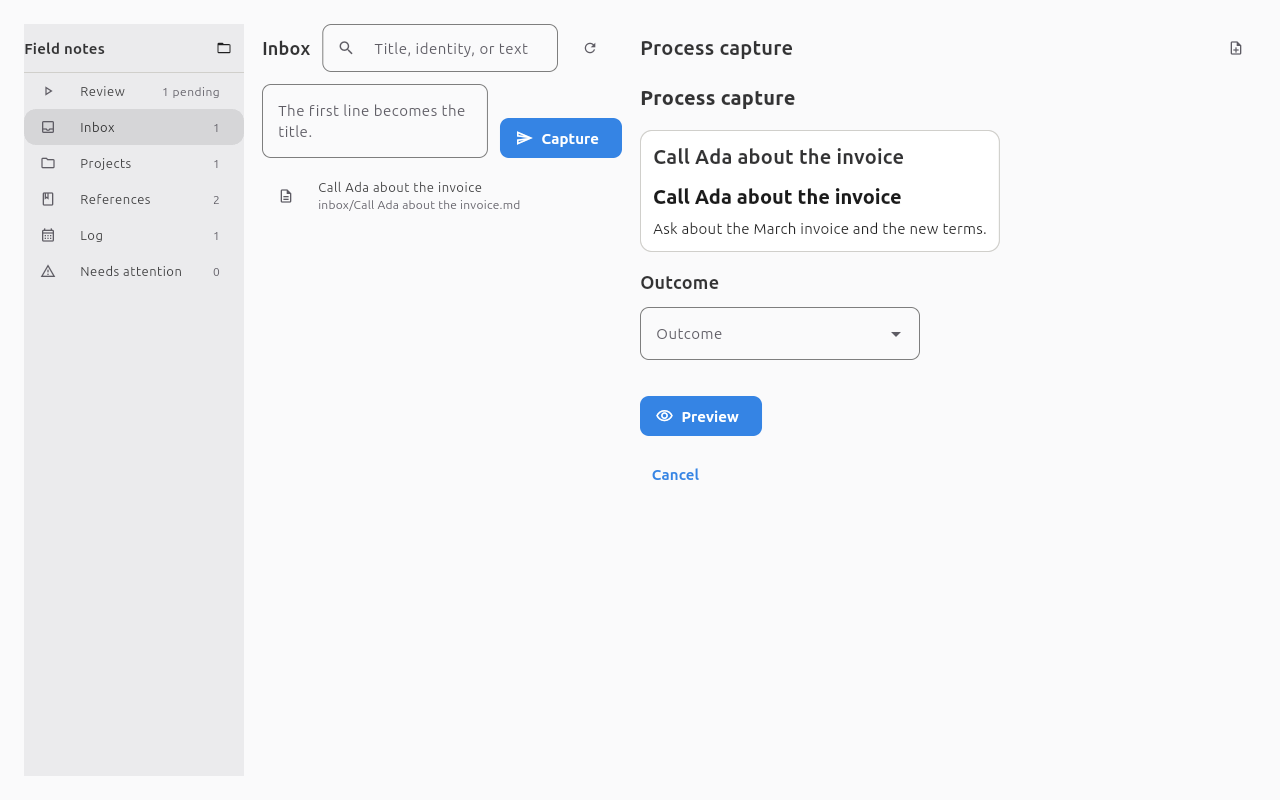
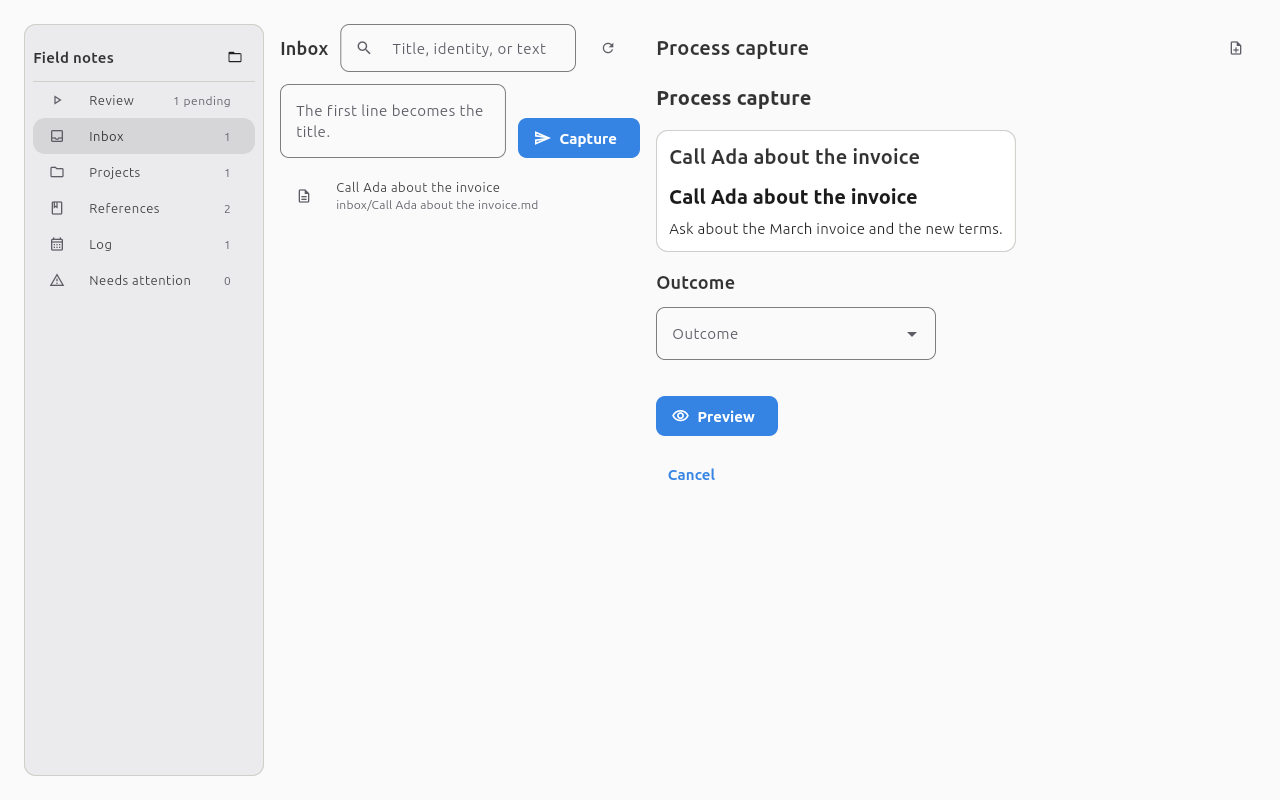
fix(workspace): give the wide navigation the panel treatment
Round and border the navigation panel in the wide layout, add inner padding, widen it to 240 so the destination labels stay on one line, and keep the drawer elevated. Regenerate the four screenshots.

diff --git a/tests/ui/test_workspace_view.py b/tests/ui/test_workspace_view.py
@@ -232,8 +232,9 @@ class TestWorkspaceShell:
         border = ft.Border.all(afanes.ui.theme.BORDER_WIDTH, afanes.ui.theme.BORDER_COLOR)
 
         assert view.navigation.bgcolor == afanes.ui.theme.REGION_SURFACE_COLOR
-        assert view.navigation.border is None
-        assert view.navigation.border_radius is None
+        assert view.navigation.border == border
+        assert view.navigation.border_radius == afanes.ui.theme.SURFACE_RADIUS
+        assert view.navigation.padding == afanes.ui.theme.NAVIGATION_PADDING
         assert view.browser_region.bgcolor == afanes.ui.theme.PAGE_SURFACE_COLOR
         assert view.browser_region.border is None
         assert isinstance(view.page_view.root, ft.Container)
@@ -886,10 +887,10 @@ class TestAdaptiveLayout:
         assert view.shell_row.controls == [view.navigation, view.browser_region, view.detail_region]
         assert view.nav_toggle.visible is False
         assert view.drawer_close_button.visible is False
-        assert view.navigation.border is None
-        assert view.navigation.border_radius is None
+        assert view.navigation.border is not None
+        assert view.navigation.border_radius == afanes.ui.theme.SURFACE_RADIUS
         assert view.navigation.shadow is None
-        assert view.navigation.padding is None
+        assert view.navigation.padding == afanes.ui.theme.NAVIGATION_PADDING
         assert view.navigation.left is None
         assert view.navigation.width == afanes.ui.theme.NAVIGATION_WIDTH
 

diff --git a/src/afanes/ui/views/workspace.py b/src/afanes/ui/views/workspace.py
@@ -389,7 +389,7 @@ class WorkspaceView:
         )
         self.shell_row = ft.Row(
             controls=[],
-            spacing=afanes.ui.theme.SECTION_GAP,
+            spacing=afanes.ui.theme.WORKSPACE_BODY_GAP,
             vertical_alignment=ft.CrossAxisAlignment.STRETCH,
             expand=True,
         )
@@ -447,10 +447,13 @@ class WorkspaceView:
         self.nav_toggle.visible = not wide
         self.drawer_close_button.visible = not wide
         if wide:
-            self.navigation.border = None
-            self.navigation.border_radius = None
+            self.navigation.border = ft.Border.all(
+                afanes.ui.theme.BORDER_WIDTH,
+                afanes.ui.theme.BORDER_COLOR,
+            )
+            self.navigation.border_radius = afanes.ui.theme.SURFACE_RADIUS
             self.navigation.shadow = None
-            self.navigation.padding = None
+            self.navigation.padding = afanes.ui.theme.NAVIGATION_PADDING
             self.navigation.left = None
             self.navigation.top = None
             self.navigation.bottom = None

diff --git a/tests/ui/test_theme.py b/tests/ui/test_theme.py
@@ -76,8 +76,9 @@ ICON_SIZE_LARGE_VALUE = 32
 LIST_ROW_MIN_HEIGHT = 36
 WINDOW_MIN_WIDTH_VALUE = 1024
 WINDOW_MIN_HEIGHT_VALUE = 600
-NAVIGATION_WIDTH_VALUE = 220
+NAVIGATION_WIDTH_VALUE = 240
 DRAWER_WIDTH_VALUE = 280
+NAVIGATION_PADDING_VALUE = 8
 BROWSER_MIN_WIDTH_VALUE = 320
 BROWSER_MAX_WIDTH_VALUE = 360
 PAGE_MIN_WIDTH_VALUE = 420
@@ -296,6 +297,7 @@ class TestTheme:
     def test_shell_tokens_match_the_designed_widths(self) -> None:
         assert afanes.ui.theme.NAVIGATION_WIDTH == NAVIGATION_WIDTH_VALUE
         assert afanes.ui.theme.DRAWER_WIDTH == DRAWER_WIDTH_VALUE
+        assert afanes.ui.theme.NAVIGATION_PADDING == NAVIGATION_PADDING_VALUE
         assert afanes.ui.theme.BROWSER_MIN_WIDTH == BROWSER_MIN_WIDTH_VALUE
         assert afanes.ui.theme.BROWSER_MAX_WIDTH == BROWSER_MAX_WIDTH_VALUE
         assert afanes.ui.theme.PAGE_MIN_WIDTH == PAGE_MIN_WIDTH_VALUE

diff --git a/src/afanes/ui/theme.py b/src/afanes/ui/theme.py
@@ -23,8 +23,9 @@ SECTION_GAP = 18
 ADOPTION_PANEL_GAP = SECTION_GAP
 ITEM_GAP = 12
 SIDEBAR_WIDTH = 260
-NAVIGATION_WIDTH = 220
+NAVIGATION_WIDTH = 240
 DRAWER_WIDTH = 280
+NAVIGATION_PADDING = 8
 BROWSER_MIN_WIDTH = 320
 BROWSER_MAX_WIDTH = 360
 PAGE_MIN_WIDTH = 420

diff --git a/docs/develop/interface-standard.md b/docs/develop/interface-standard.md
@@ -73,7 +73,7 @@ guidelines. The workspace divides the window into three regions with bounded wid
 
 | Token | Value | Use |
 | --- | --- | --- |
-| `NAVIGATION_WIDTH` | 220 | Destinations, counts, vault identity, primary menu |
+| `NAVIGATION_WIDTH` | 240 | Destinations, counts, vault identity, primary menu |
 | `DRAWER_WIDTH` | 280 | Transient navigation drawer at medium widths |
 | `BROWSER_MIN_WIDTH` | 320 | Smallest usable browser column |
 | `BROWSER_MAX_WIDTH` | 360 | Browser column ceiling |
@@ -104,7 +104,8 @@ search entry, refresh, and the destination's actions. The detail toolbar holds B
 flow title, at most one suggested action, and a secondary menu.
 
 The primary menu sits above the navigation list, as required when a window has a sidebar. The
-navigation is flush chrome, not a rounded card. The browser is flush with the window surface. The
+navigation is a bordered panel with the reference surface radius: structural in the wide layout, and
+elevated with a shadow when it becomes a drawer. The browser is flush with the window surface. The
 detail keeps the note-view surface and its card boundary.
 
 A third-party desktop window supplies its own decorations. The application cannot draw controls

diff --git a/openspec/changes/adaptive-browser-shell/design.md b/openspec/changes/adaptive-browser-shell/design.md
@@ -168,8 +168,9 @@ its own spec and state command; it is better as a later guided-review change.
 
 Navigation uses the sidebar surface, the browser uses the window surface, and the detail uses the
 note-view surface. The four reference roles stay unchanged; the browser does not add a fifth role.
-The navigation is flush chrome rather than a rounded card, the browser is flush, and the detail
-keeps its card border and radius. The three headers share one height token.
+The navigation is a bordered panel with the surface radius, structural in the wide layout and
+elevated with a shadow as a drawer. The browser is flush, and the detail keeps its card border and
+radius. The three headers share one height token.
 
 ### 9. Widths and content bounds
 
@@ -177,7 +178,7 @@ Add tokens for the navigation width, browser minimum and maximum, detail minimum
 maximum reading width. Proposed values:
 
 ```text
-NAVIGATION_WIDTH   220
+NAVIGATION_WIDTH   240
 BROWSER_MIN_WIDTH  320
 BROWSER_MAX_WIDTH  360
 PAGE_MIN_WIDTH     420
